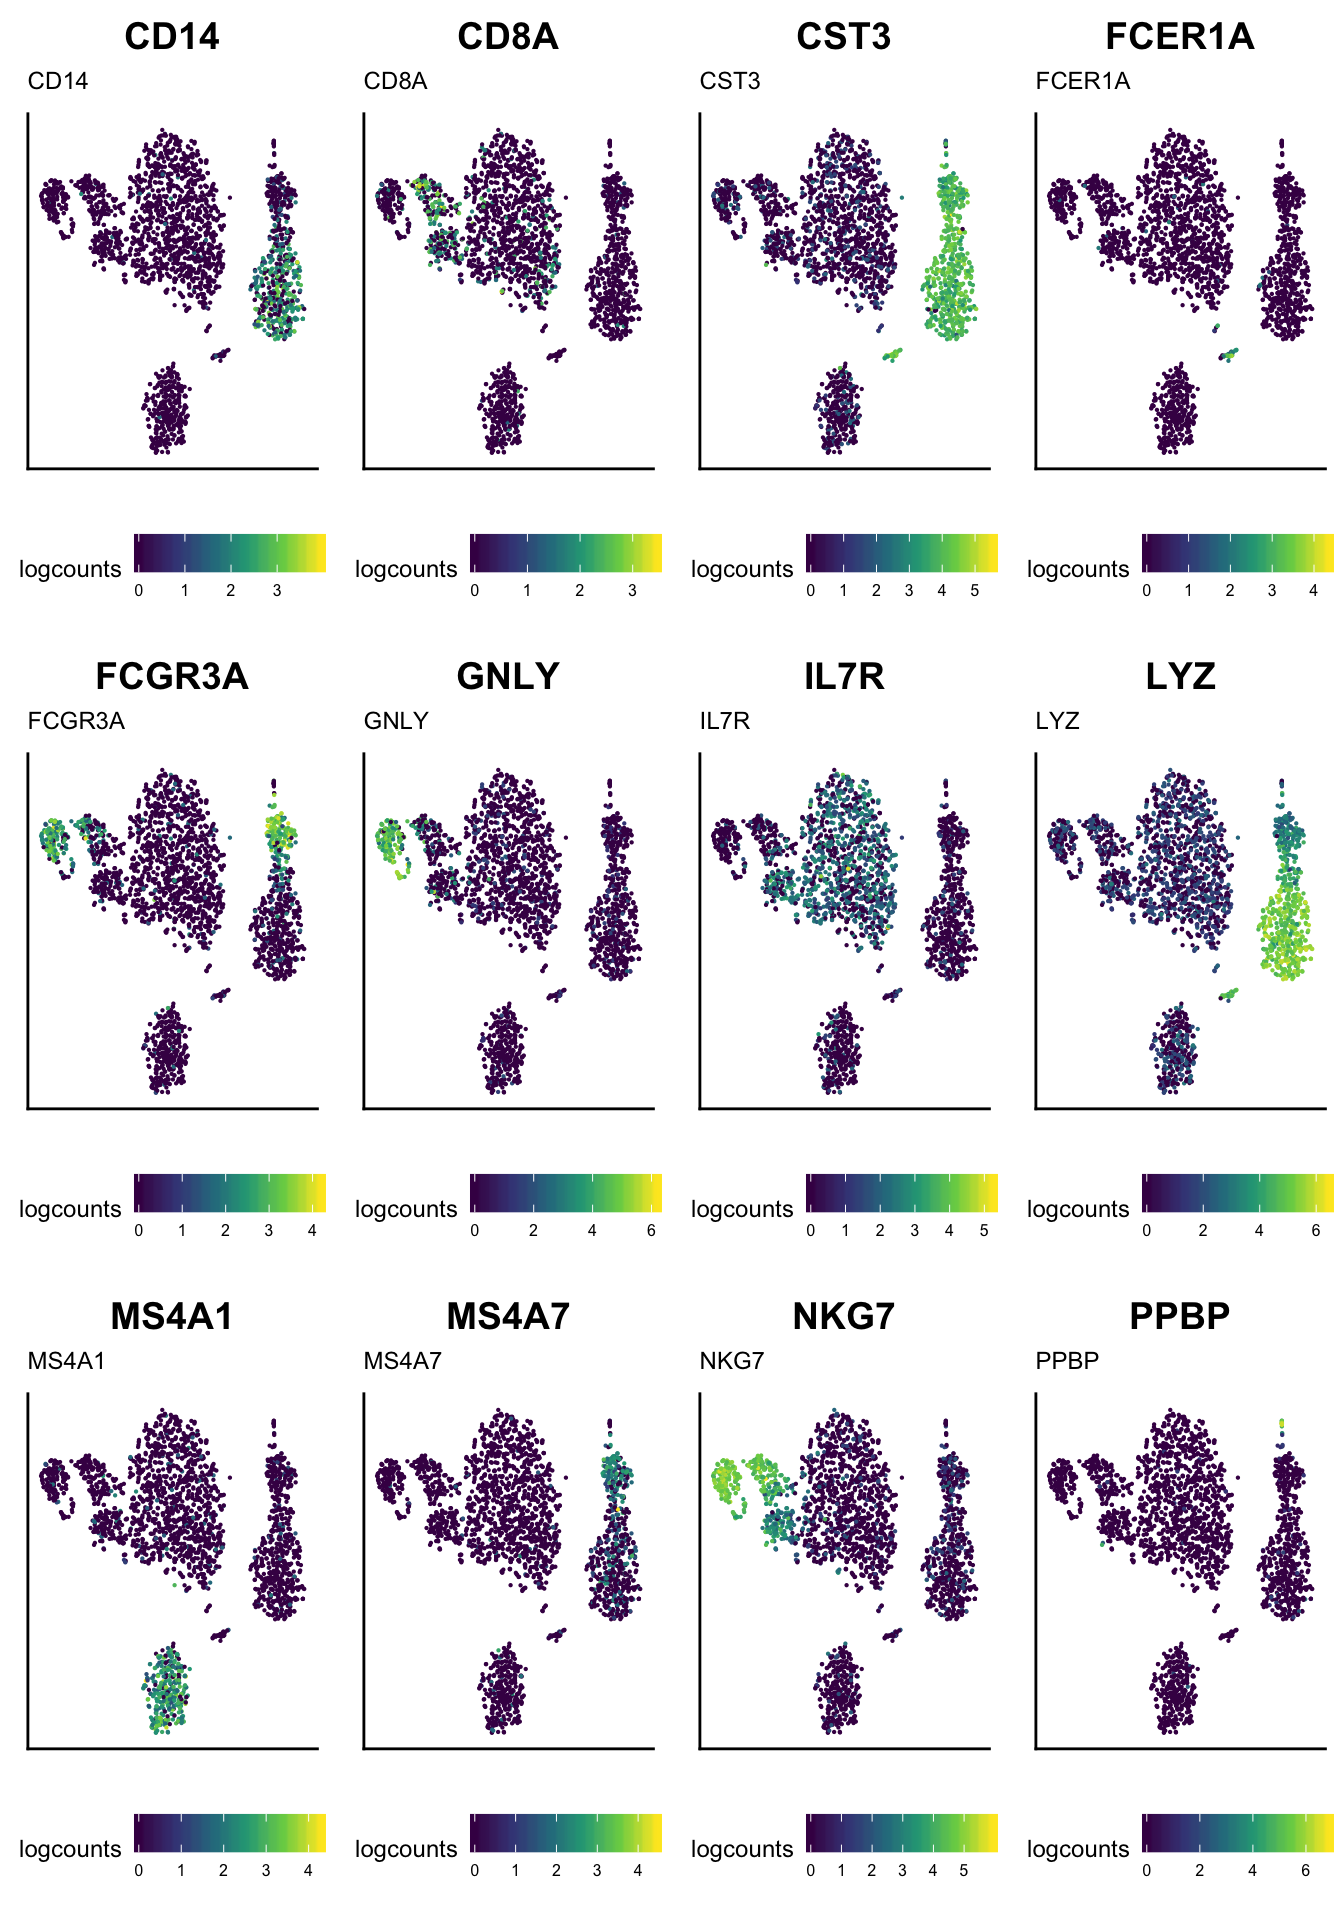
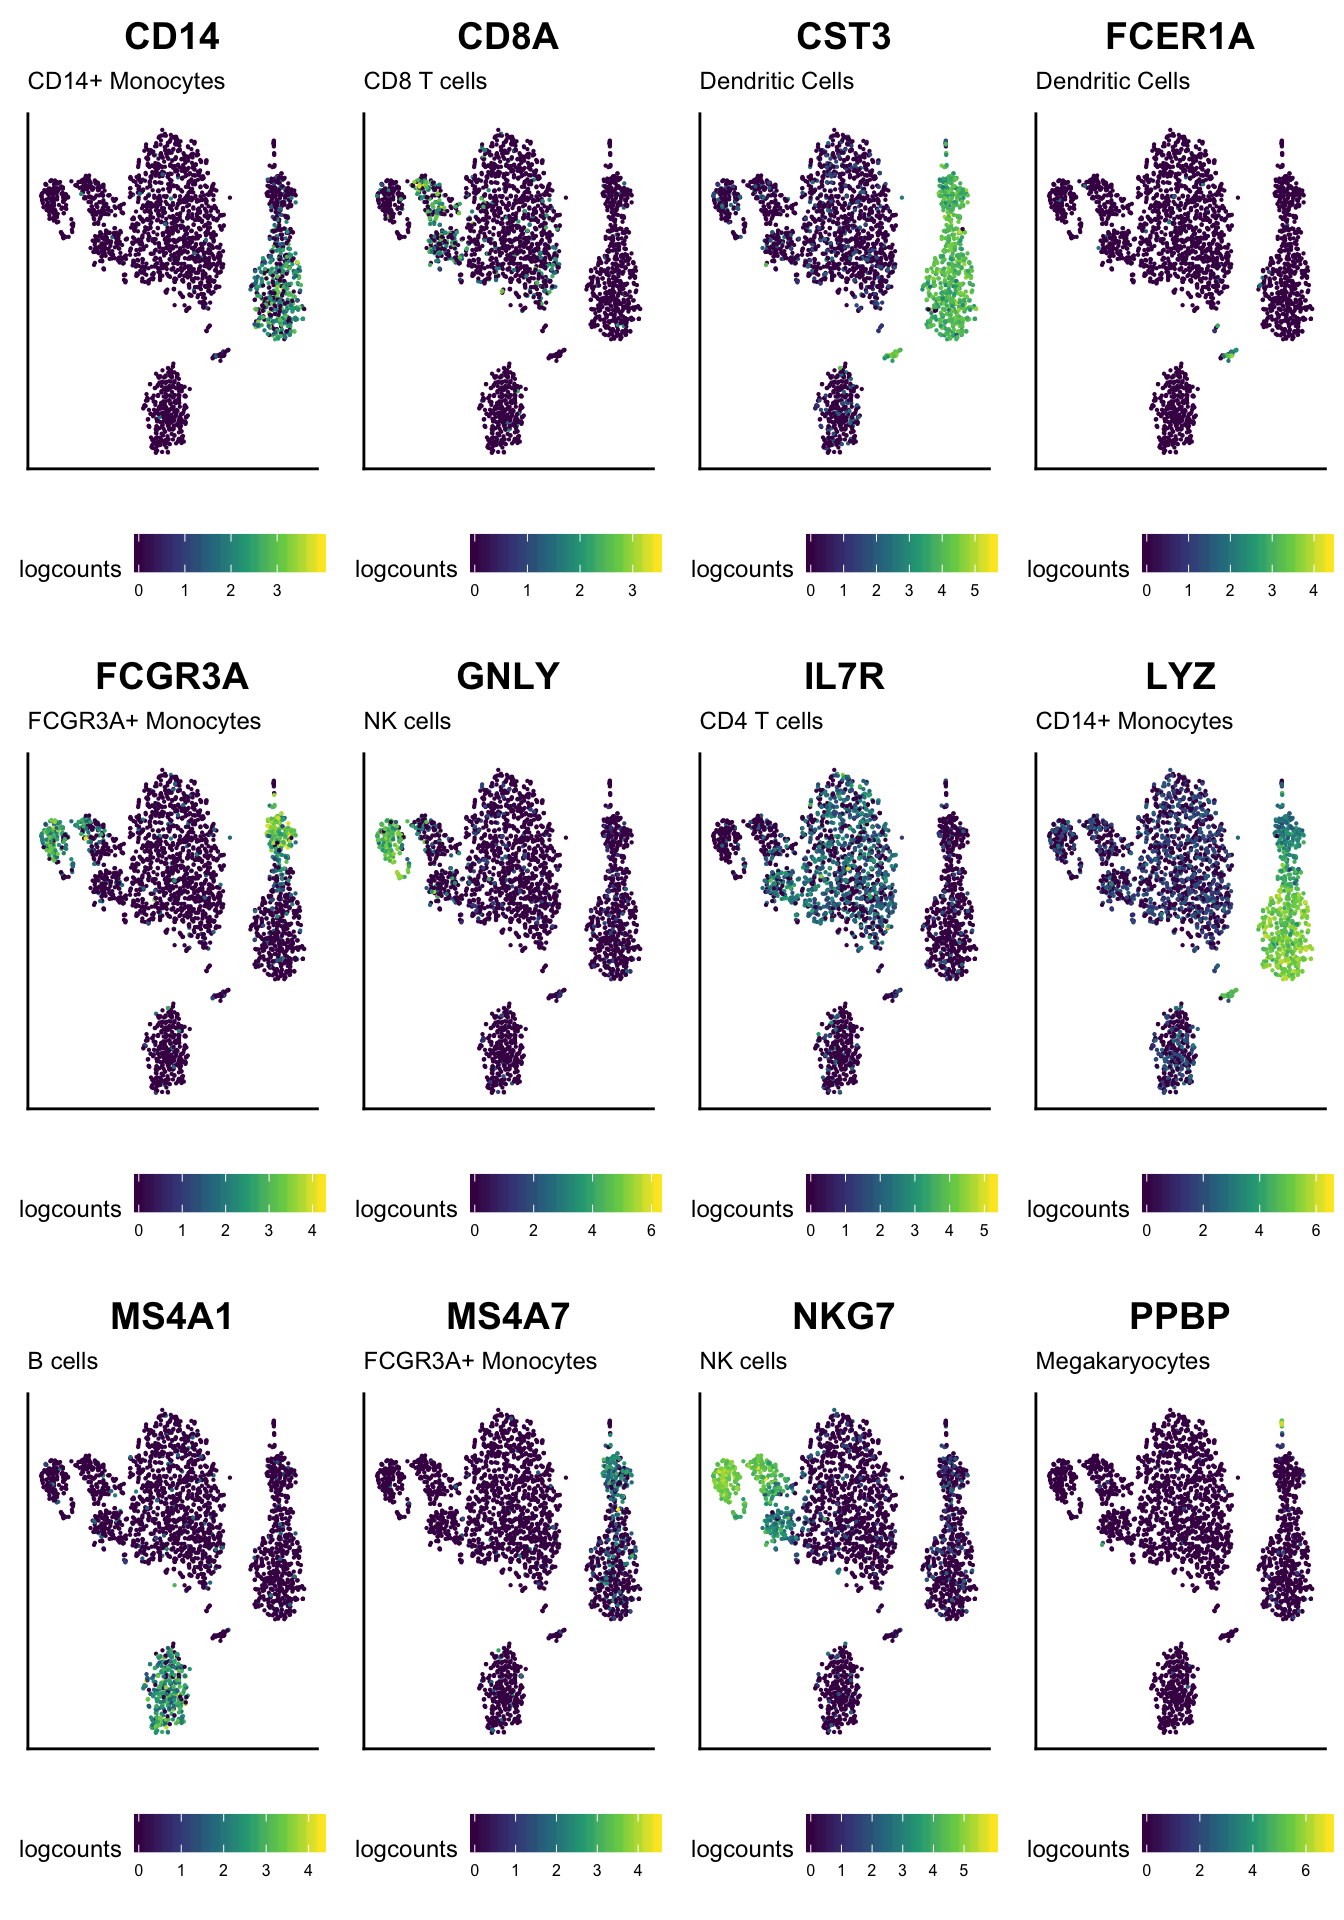
fix set labels

diff --git a/docs/index.html b/docs/index.html
@@ -448,34 +448,8 @@ div.tocify {
 <p>The following commands install the package and some dependencies only available from <a href="https://github.com">GitHub</a>.</p>
 <pre class="r"><code>install.packages(&quot;devtools&quot;)
 devtools::install_github(&quot;Kayla-Morrell/GeneSet&quot;)
-devtools::install_github(&quot;kevinrue/unisets&quot;)</code></pre>
-<pre><code>## 
-##   
-   checking for file ‘/private/var/folders/d1/n47cc0fj1ggc17l0y53gkz7w0000gp/T/Rtmp6jtZBR/remotesc95566e7047d/kevinrue-unisets-beb8c2b/DESCRIPTION’ ...
-  
-✔  checking for file ‘/private/var/folders/d1/n47cc0fj1ggc17l0y53gkz7w0000gp/T/Rtmp6jtZBR/remotesc95566e7047d/kevinrue-unisets-beb8c2b/DESCRIPTION’
-## 
-  
-─  preparing ‘unisets’:
-## 
-  
-   checking DESCRIPTION meta-information ...
-  
-✔  checking DESCRIPTION meta-information
-## 
-  
-─  checking for LF line-endings in source and make files and shell scripts
-## 
-  
-─  checking for empty or unneeded directories
-## 
-  
-─  building ‘unisets_0.99.0.tar.gz’
-## 
-  
-   
-## </code></pre>
-<pre class="r"><code>devtools::install_github(&quot;kevinrue/hancock&quot;)</code></pre>
+devtools::install_github(&quot;kevinrue/unisets&quot;)
+devtools::install_github(&quot;kevinrue/hancock&quot;)</code></pre>
 </div>
 <div id="data-sets" class="section level1">
 <h1>Data sets</h1>

diff --git a/docs/1-proportion_signature.html b/docs/1-proportion_signature.html
@@ -560,7 +560,7 @@ for (markerName in unique(unlist(elementIds(basesets)))) {
         reducedDim(sce, &quot;TSNE&quot;),
         logcounts=assay(sce, &quot;logcounts&quot;)[markerName, ]
     )
-    cellIdentity &lt;- names(which(sapply(elementIds(basesets), function(x){markerName %in% x})))
+    cellIdentity &lt;- subset(as.data.frame(basesets), element == markerName, &quot;set&quot;, drop=TRUE)
     gg &lt;- ggplot(ggDataFrame, aes(tSNE_1, tSNE_2, color=logcounts)) +
         geom_point(size=0.1) +
         scale_color_viridis_c() +
